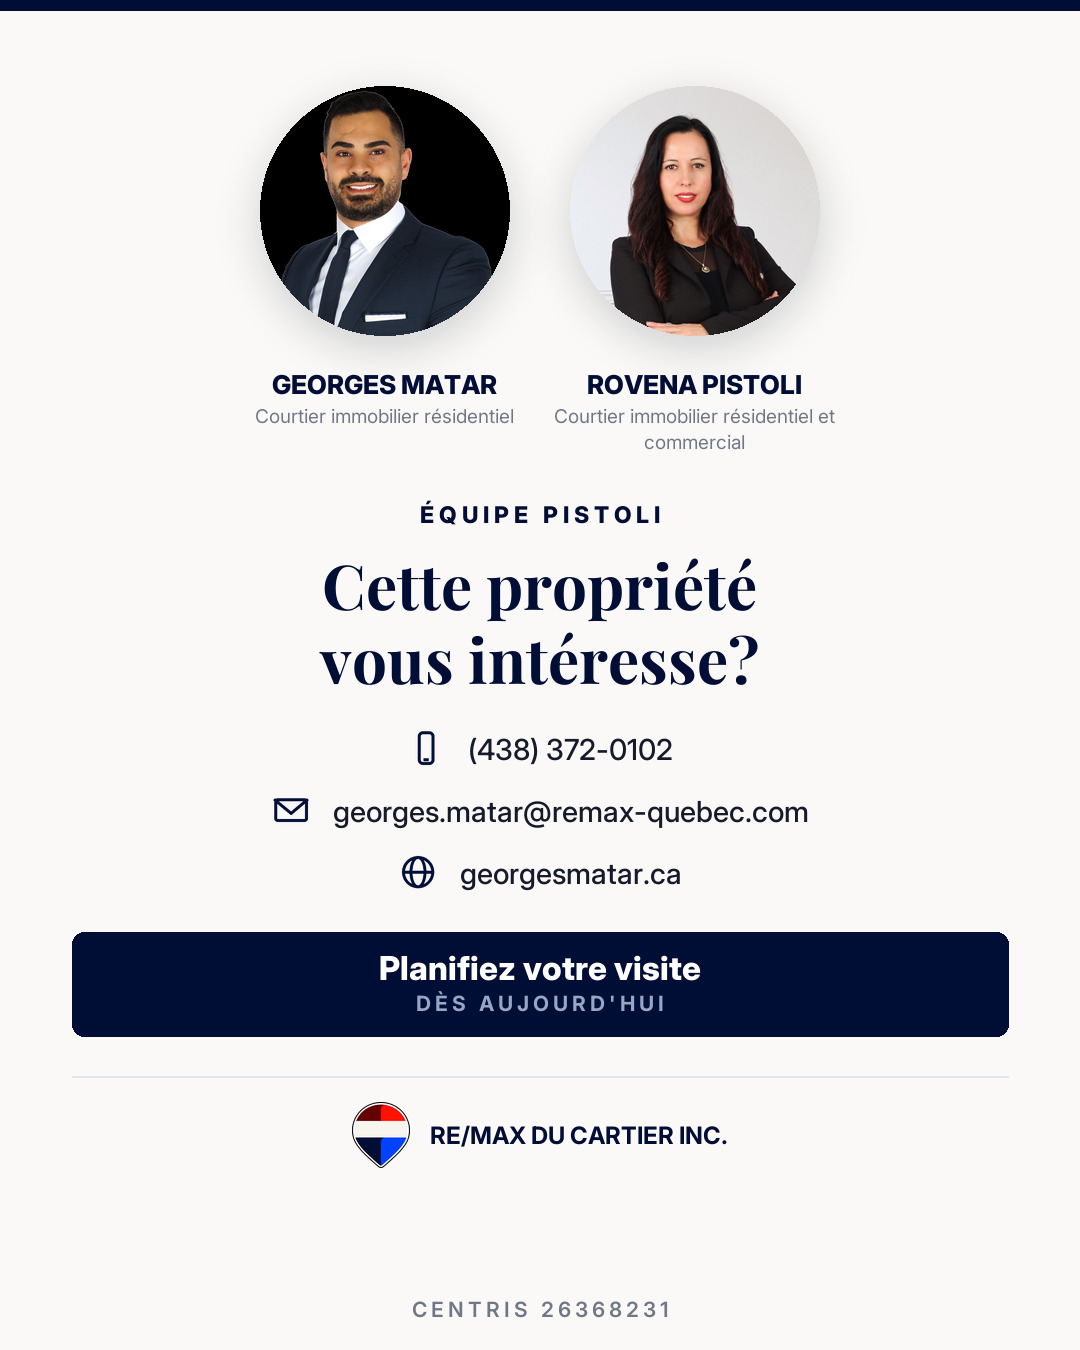
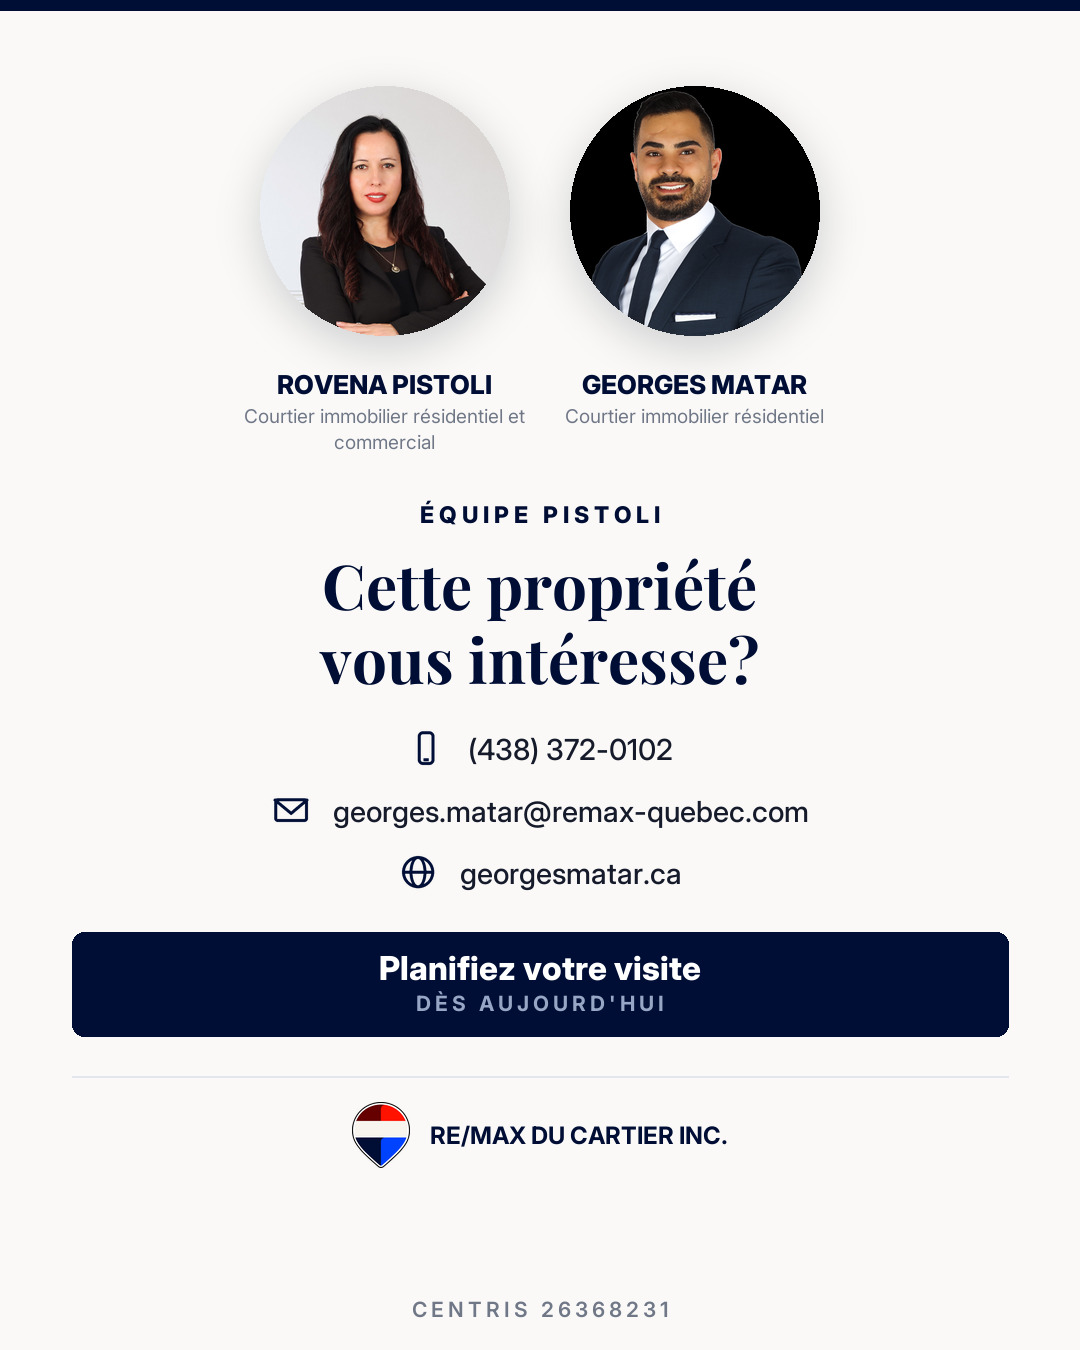
fix: Rovena a gauche et Georges a droite sur la slide contact

diff --git a/carrousel-instagram/generer-carrousel.py b/carrousel-instagram/generer-carrousel.py
@@ -463,14 +463,16 @@ def slide8():
 
     s, gap = 250, 60
     x0 = (W - (2 * s + gap)) // 2
-    circle_photo(c, os.path.join(ASSETS, "georges-matar.png"), (x0, 86), s)
-    circle_photo(c, os.path.join(SOURCES, "rovena-pistoli.jpg"),
-                 (x0 + s + gap, 86), s, fy=0.0)
+    circle_photo(c, os.path.join(SOURCES, "rovena-pistoli.jpg"), (x0, 86), s,
+                 fy=0.0)
+    circle_photo(c, os.path.join(ASSETS, "georges-matar.png"),
+                 (x0 + s + gap, 86), s)
 
     for cx, nom, titre in [
-            (x0 + s // 2, "GEORGES MATAR", "Courtier immobilier résidentiel"),
-            (x0 + s + gap + s // 2, "ROVENA PISTOLI",
-             "Courtier immobilier résidentiel et commercial")]:
+            (x0 + s // 2, "ROVENA PISTOLI",
+             "Courtier immobilier résidentiel et commercial"),
+            (x0 + s + gap + s // 2, "GEORGES MATAR",
+             "Courtier immobilier résidentiel")]:
         d.text((cx, 368), nom, font=inter(26, 800), fill=NAVY, anchor="ma")
         para(d, (cx, 404), titre, inter(19, 400), GREY, s + 40, 26, "c")
 
